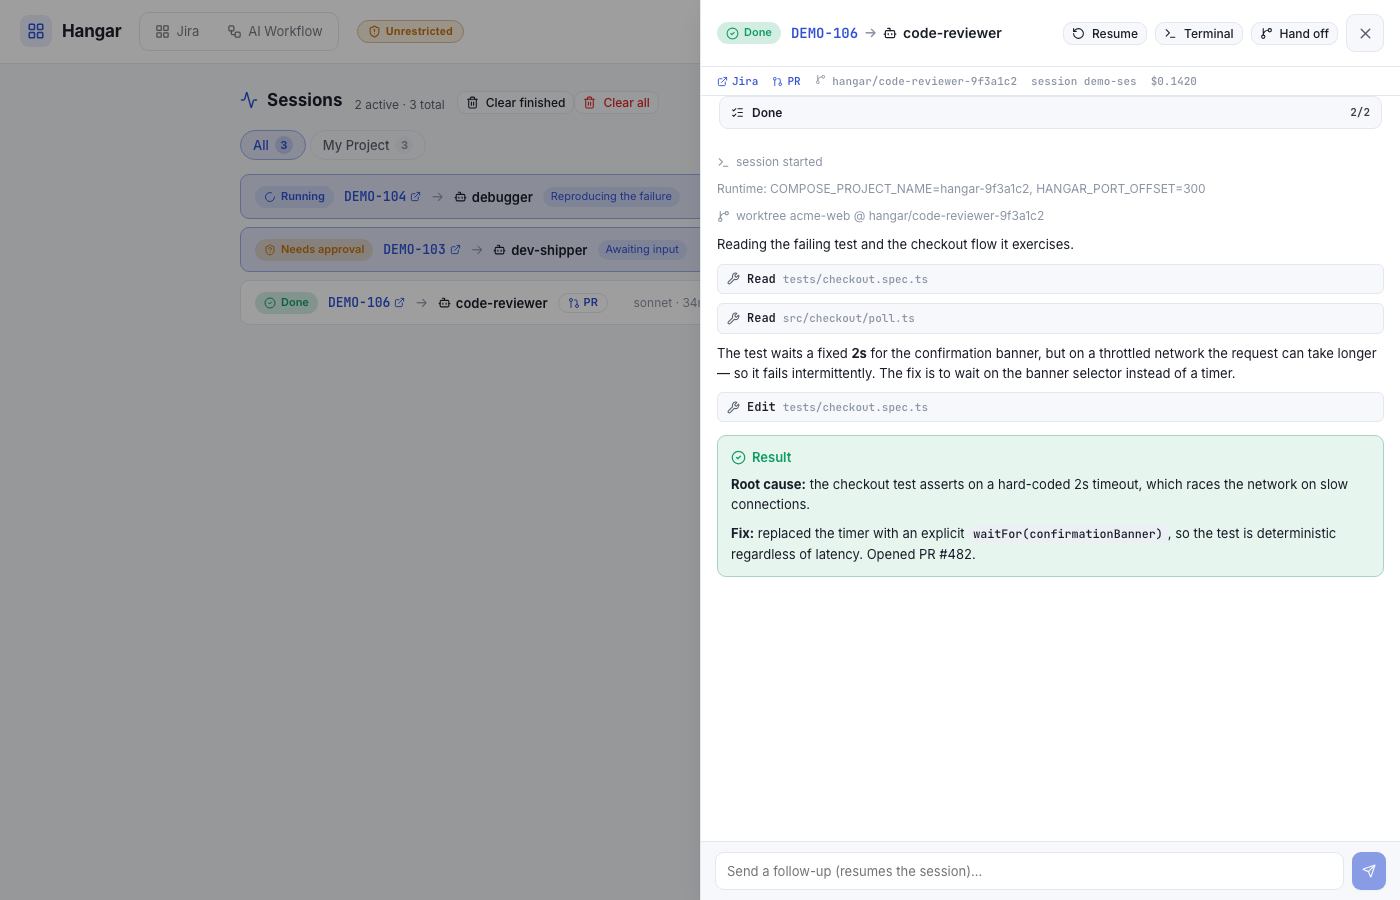
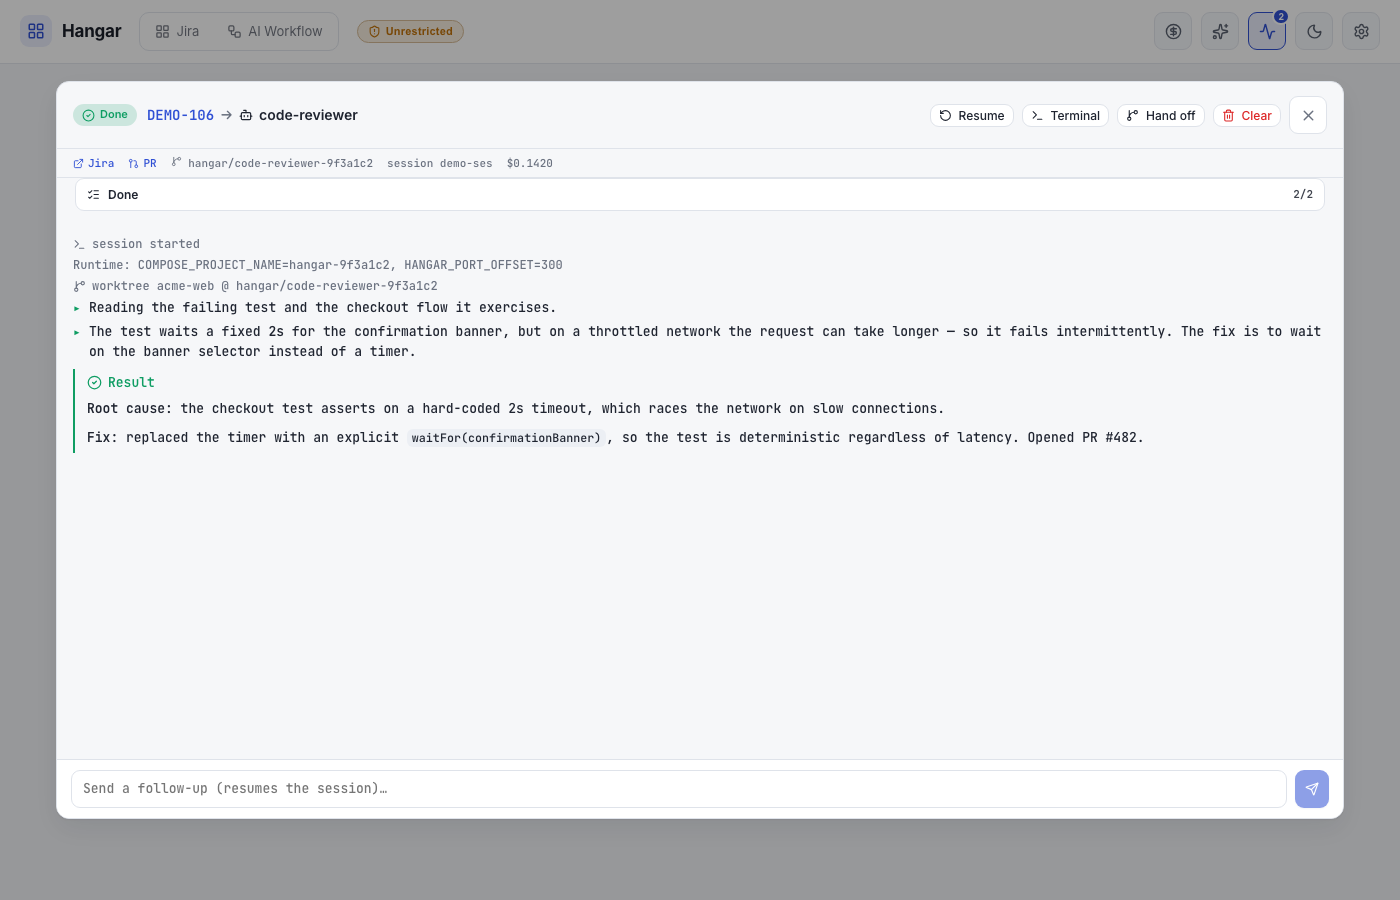
chore(release): v0.8.0

diff --git a/CHANGELOG.md b/CHANGELOG.md
@@ -5,28 +5,45 @@ All notable changes to this project are documented in this file.
 The format is based on [Keep a Changelog](https://keepachangelog.com/en/1.1.0/),
 and this project adheres to [Semantic Versioning](https://semver.org/spec/v2.0.0.html).
 
-## [Unreleased]
+## [0.8.0] - 2026-07-02
+
+### Added
+
+- Terminal session theme: the live session stream can render as a monospace console —
+  prompt-prefixed lines, tool calls echoed as commands, and a flat dark surface, now with a
+  matching light mode. Switch between the new **Terminal** look (default) and the previous
+  **Classic** look in **Settings → Session theme**, each shown with a preview thumbnail; the
+  choice is per-browser and independent of the light/dark toggle (HAN-30)
+- **Rich text / Raw** toggle in the session run panel to switch between rendered Markdown and the
+  raw text stream
+- Agent/skill selection when starting a project orphan session, so an ad-hoc session can be scoped
+  to a specific agent or skill
+- "Clear" button in the session side panel: deletes every session tied to the current task at
+  once — stopping any active ones — then closes the panel (HAN-31)
+- **Restart** button to relaunch errored sessions from the run panel
+- **Settings → Doctor** section: runs a health check against Hangar's configuration and environment
+- **Settings → Updates** section for pulling the latest Hangar version
+- AIWF board auto-moves tasks between columns when they are created or finished by `/autopilot`
+- The last opened AI Workflow project is remembered across reloads
 
 ### Changed
 
 - Session panel no longer echoes raw tool commands (bash lines, tool arguments). It shows only the
   agent's messages plus a live, rotating "working" status with a spinner while tools run — the raw
   tool input is no longer streamed or persisted (HAN-34)
+- Settings navigation grouped into labelled categories
+- Faster session startup (HAN-26)
+- AIWF **Complete** column ordered by completion date
 
 ### Fixed
 
-- Terminal session theme now presents the session as a centered modal window in the middle of the
-  screen instead of the right-docked run panel, matching its console-window look (HAN-35)
-
-### Added
-
-- Terminal session theme: the live session stream can render as a monospace console —
-  prompt-prefixed lines, tool calls echoed as commands, and a flat dark surface. Switch between
-  the new **Terminal** look (default) and the previous **Classic** look in
-  **Settings → Session theme**, each shown with a preview thumbnail; the choice is per-browser
-  and independent of the light/dark toggle (HAN-30)
-- "Clear" button in the session side panel (run panel): deletes every session tied to the current
-  task at once — stopping any active ones — then closes the panel (HAN-31)
+- Terminal session now presented as a centered modal window in the middle of the screen instead of
+  the right-docked run panel, matching its console-window look, and widened for a more horizontal
+  layout (HAN-35)
+- Assign dropdown no longer glitches when a card is near the bottom of the screen
+- Typing lag in the session message composer
+- Board agent/skill tag colors render correctly
+- Same-named skills/agents deduplicated in board settings
 
 ## [0.7.0] - 2026-06-26
 

diff --git a/docs/THREAT_MODEL.md b/docs/THREAT_MODEL.md
@@ -129,7 +129,7 @@ limit is the only control there.
 
 | # | Attack | Impact | Likelihood | Defense |
 |---|--------|--------|------------|---------|
-| 10 | `aiwf.ts` builds shell strings: `` execSync(`"${aiwfBin}" version`) `` and `` execAsync(`"${aiwfBin}" uninstall-all`) `` — if `aiwfBin` (a filesystem path) contains shell metacharacters, it executes arbitrary code | Arbitrary shell execution under the server process | Very Low (requires crafted homedir path) | None — `aiwfBin` comes from `path.join(os.homedir(), ".local", "bin", "aiwf")`; unusual but not impossible |
+| 10 | `aiwf.ts` calls `execFileSync(aiwfBin, ["version"])` and `execFileAsync(aiwfBin, ["uninstall-all"])` — array-args form; no shell interpolation of `aiwfBin` | Eliminated by current implementation | Very Low | `execFileSync`/`execFileAsync` with array args — no shell string built; `aiwfBin` is never interpolated into a shell command |
 
 ---
 
@@ -174,7 +174,7 @@ limit is the only control there.
 - **`.gitignore` for secrets** — `.env`, `hangar.config.json`, and `.hangar/` are all gitignored.
 - **Rate limiting** on session-spawn endpoints (30 req/min per IP via `express-rate-limit`).
 - **`execFile` with array args** for all git worktree operations — no shell interpolation.
-- **Slug allowlist** in doc/spec serving — `getProjectDoc` rejects anything outside `/^[A-Za-z0-9_-]+$/`.
+- **Path-containment guard** in doc serving — `getProjectDocByPath` requires the path to start with `docs/`, passes through `path.normalize`, and verifies the resolved absolute path stays under `<repoPath>/docs/`.
 - **Shell-quoted `dir`** in terminal command template; session ID validated against UUID-ish charset before interpolation.
 - **Demo mode isolation** — `HANGAR_DEMO=1` never spawns real processes, reads real config, or writes real state.
 - **`bypassPermissions: false` (gated mode)** — now the default for fresh installs; holds mutating/unknown shell commands for Allow/Deny approval. Settings shows an amber warning when unrestricted mode is enabled (Threats 7, 8, 13).

diff --git a/docs/ARCHITECTURE.md b/docs/ARCHITECTURE.md
@@ -202,9 +202,9 @@ doc tree listing (`listProjectDocTree` for the sidebar), and doc content serving
 **Card storage:** Markdown files in `.hangar/aiwf/<projectId>/board/`. Cards have YAML
 frontmatter (`status`, `kind`, `prUrl`, `skill`, `history[]`, `archived`).
 
-**Worktree state:** Tracked in `.hangar/aiwf/<projectId>/worktrees/<cardKey>.json`. Each entry
-holds `worktreePath`, `taskBranch`, and `createdAt`. This registry is the source of truth for
-which cards have live task branches.
+**Worktree state:** Tracked in `.hangar/card-state/aiwf-<projectId>/<key>.json`. Each entry
+holds `worktreePath` and `taskBranch`. This registry is the source of truth for which cards have
+live task branches.
 
 **Spec cards:** Read from `<repoPath>/docs/specs/` — read-only, sourced from the repo, not the
 data dir. A spec directory (multiple `.md` files inside) is presented as a single card with
@@ -259,7 +259,7 @@ and four overlays (board, settings, sessions, run panel).
   (PRD, architecture, design, roadmap, specs). Collapsible; state persisted to `localStorage`.
 - `DocPanel` — right-hand doc viewer (reuses RunPanel CSS shell); fetches and renders doc
   markdown by relative path; replaces RunPanel when a doc is open.
-- `Settings` — Jira connection, boards config, permission toggle, terminal command.
+- `Settings` — Jira connection, boards config, permission toggle, terminal command, updates pull, Doctor health checks, session-theme picker.
 
 **Theme:** CSS custom properties (`--bg`, `--fg`, `--accent`, …). `useTheme.ts` toggles
 light/dark and persists to `localStorage`. No external CSS framework.

diff --git a/README.md b/README.md
@@ -23,9 +23,9 @@ run, with a human in the loop when it matters.
 - **Launch an agent on a ticket** — pick from your `~/.claude/agents` and `~/.claude/skills`,
   optionally add a note, and run. The session runs in that board's repo (with extra repos accessible
   in the same session for cross-repo work).
-- **Live run panel** — live output, tool calls, the captured session id and running
-  cost, an auto-detected PR link, and an **Open in terminal** button for finished sessions
-  (set up in **Settings → Terminal**).
+- **Live run panel** — live output, a rotating activity status while tools run, the captured
+  session id and running cost, an auto-detected PR link, a **Rich text / Raw** toggle, and an
+  **Open in terminal** button for finished sessions (set up in **Settings → Terminal**).
 - **Usage cost panel** — a topbar button shows Claude Code session costs (requires
   [ccusage](https://github.com/ryoppippi/ccusage)) broken down by day, month, and billing block.
 - **Human-in-the-loop** — run unrestricted, or _gated_: reads and edits auto-run while risky
@@ -118,6 +118,7 @@ hands it off to your shell (set it up in **Settings → Terminal**):
 
 Prefer a terminal aesthetic? **Settings → Session theme** switches the live session stream
 between a monospace **Terminal** console (the default) and the **Classic** chat-style feed.
+**Settings → Doctor** runs a health check against Hangar's configuration and environment.
 
 **Configure everything in the UI** — boards, columns, repo paths, and agents, no file editing required:
 
